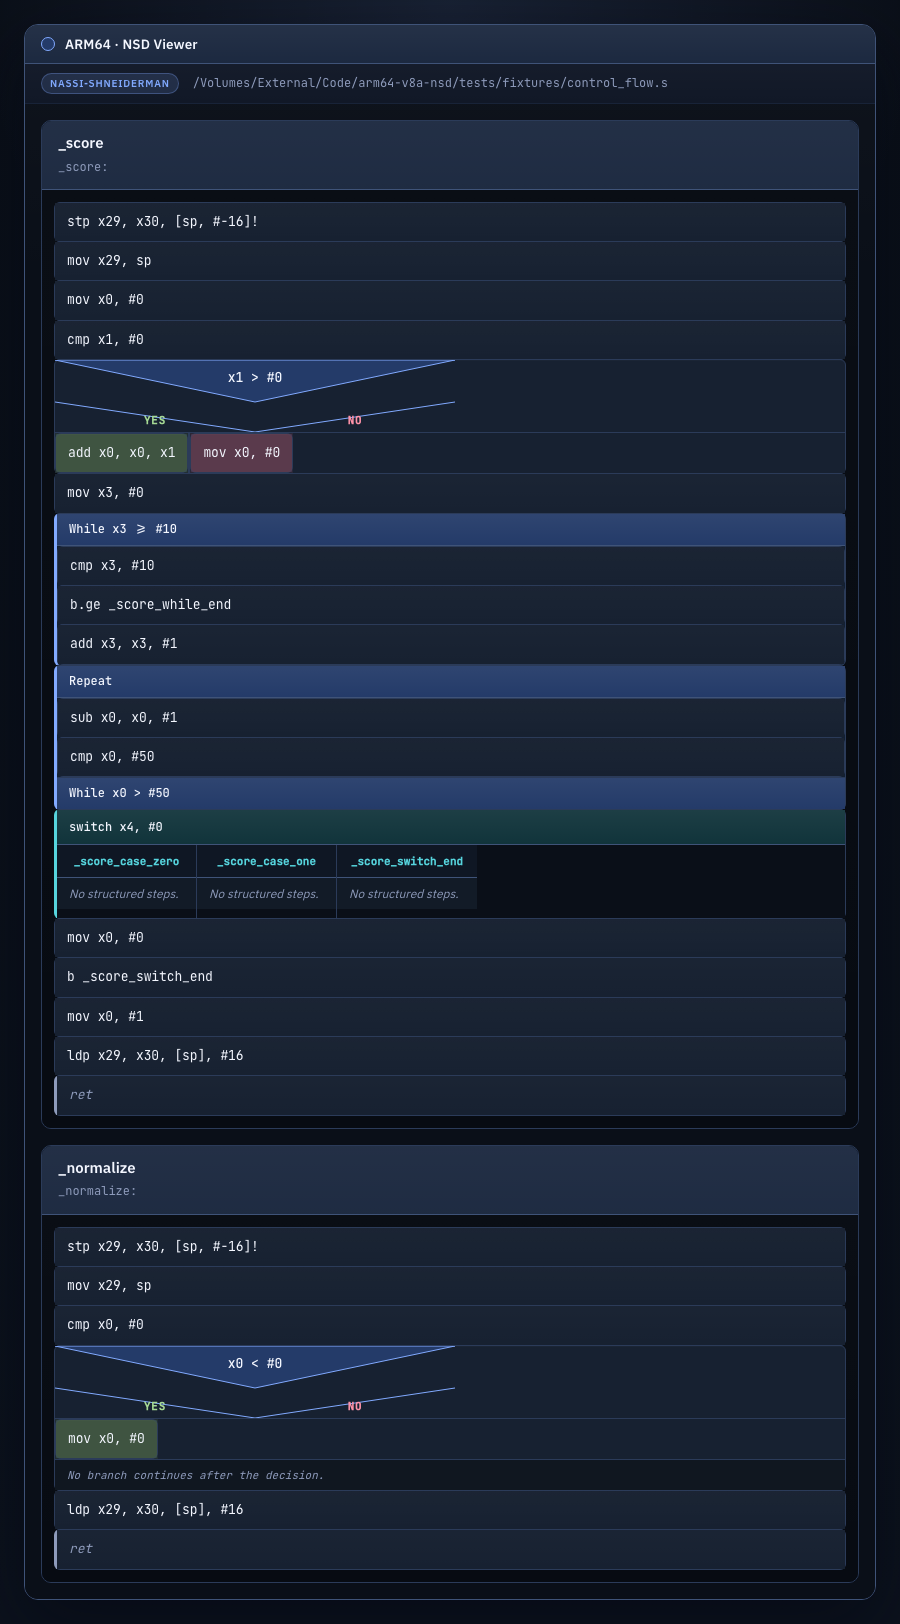
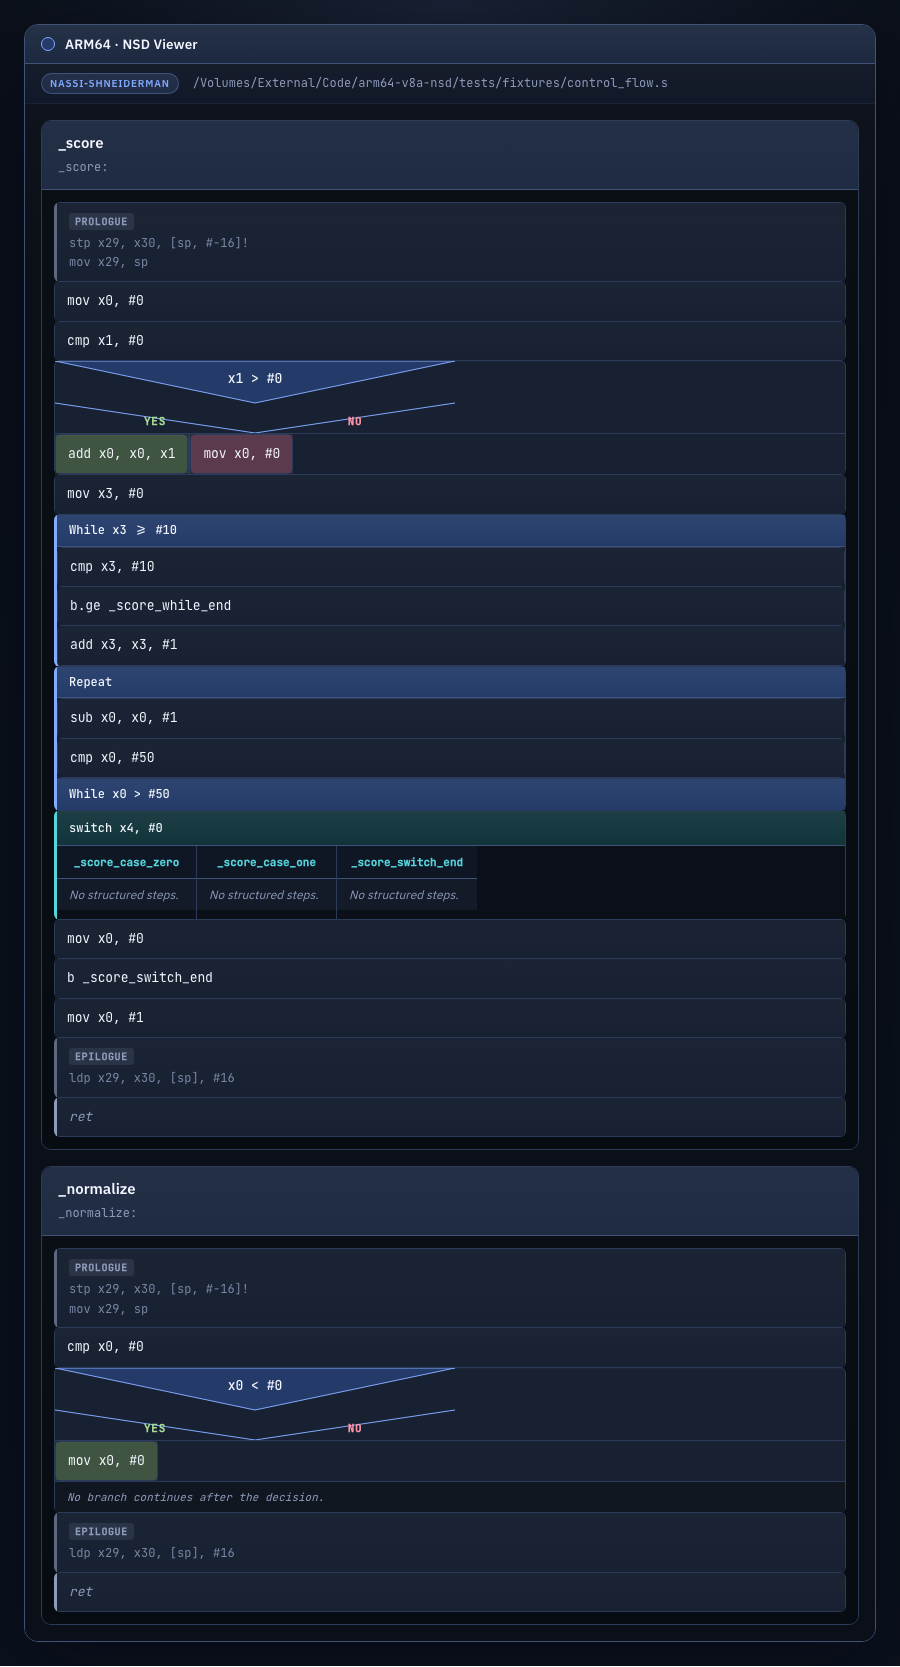
.

Changed region(s): [[0.0311, 0.0, 0.9644, 0.9544], [0.2178, 0.0308, 0.7467, 0.0616]]

diff --git a/src/arm64nsd/infrastructure/arm64/instruction_set.py b/src/arm64nsd/infrastructure/arm64/instruction_set.py
@@ -334,6 +334,84 @@ def is_register(token: str) -> bool:
     return token.lower().strip() in ALL_REGISTERS
 
 
+# ---------------------------------------------------------------------------
+# Stack frame helpers
+# ---------------------------------------------------------------------------
+
+_STACK_FRAME_REGISTERS: frozenset[str] = frozenset({"fp", "lr", "x29", "x30"})
+
+
+def is_prologue_instruction(mnemonic: str, operands: str) -> bool:
+    """True when the instruction is a typical function prologue operation.
+
+    Recognised patterns:
+      - stp x29, x30, [sp, #... ]!   (push frame record)
+      - stp fp, lr, [sp, #...]!
+      - sub sp, sp, #N               (allocate stack frame)
+      - mov x29, sp                  (set frame pointer)
+      - mov fp, sp
+      - add x29, sp, #0
+    """
+    mnem = mnemonic.lower()
+    ops = operands.lower().replace(" ", "")
+
+    # stp with fp/lr/x29/x30 targeting [sp, ...]!
+    if mnem == "stp":
+        has_frame_reg = any(r in ops for r in _STACK_FRAME_REGISTERS)
+        has_sp = "sp" in ops and ("[sp" in ops or ",sp" in ops)
+        return has_frame_reg and has_sp
+
+    # sub sp, sp, #N or sub sp, sp, N
+    if mnem == "sub":
+        parts = [p.strip() for p in operands.split(",")]
+        if len(parts) >= 2 and parts[0].strip().lower() == "sp" and parts[1].strip().lower() == "sp":
+            return True
+
+    # mov x29, sp / mov fp, sp / add x29, sp, #0
+    if mnem == "mov":
+        parts = [p.strip() for p in operands.split(",")]
+        if len(parts) >= 2 and parts[0].strip().lower() in ("x29", "fp") and parts[1].strip().lower() == "sp":
+            return True
+
+    if mnem == "add":
+        parts = [p.strip() for p in operands.split(",")]
+        if len(parts) >= 2 and parts[0].strip().lower() in ("x29", "fp") and parts[1].strip().lower() == "sp":
+            return True
+
+    return False
+
+
+def is_epilogue_instruction(mnemonic: str, operands: str) -> bool:
+    """True when the instruction is a typical function epilogue operation.
+
+    Recognised patterns:
+      - ldp x29, x30, [sp], #N      (pop frame record)
+      - ldp fp, lr, [sp], #N
+      - add sp, sp, #N               (deallocate stack frame)
+      - mov sp, x29 / mov sp, fp     (restore sp from frame pointer)
+    """
+    mnem = mnemonic.lower()
+    ops = operands.lower().replace(" ", "")
+
+    # ldp with fp/lr/x29/x30 from [sp], #N
+    if mnem == "ldp":
+        has_frame_reg = any(r in ops for r in _STACK_FRAME_REGISTERS)
+        has_sp = "sp" in ops and ("[sp" in ops or ",sp" in ops)
+        return has_frame_reg and has_sp
+
+    # add sp, sp, #N
+    if mnem in ("add", "mov"):
+        parts = [p.strip() for p in operands.split(",")]
+        if len(parts) >= 2 and parts[0].strip().lower() == "sp":
+            src = parts[1].strip().lower()
+            if mnem == "mov" and src in ("x29", "fp"):
+                return True
+            if mnem == "add" and src == "sp":
+                return True
+
+    return False
+
+
 def is_directive(token: str) -> bool:
     """True when *token* starts with ``.`` and matches a known directive name."""
     if not token.startswith("."):

diff --git a/src/arm64nsd/infrastructure/rendering/nassi_html_renderer.py b/src/arm64nsd/infrastructure/rendering/nassi_html_renderer.py
@@ -13,10 +13,12 @@ from arm64nsd.domain.control_flow import (
     ContinueStep,
     ControlFlowDiagram,
     ControlFlowStep,
+    EpilogueStep,
     IfFlowStep,
     IndirectBranchStep,
     InlineIfStep,
     InfiniteLoopStep,
+    PrologueStep,
     RepeatWhileFlowStep,
     ReturnStep,
     SwitchCaseFlow,
@@ -314,6 +316,30 @@ class HtmlNassiDiagramRenderer(NassiDiagramRenderer):
       .ns-node.ns-continue {{ border-left: 3px solid var(--amber); background: var(--amber-dim); }}
       .ns-node.ns-inline-if {{ border-left: 3px solid var(--purple); background: var(--purple-dim); }}
       .ns-node.ns-indirect {{ border-left: 3px solid var(--teal); background: var(--teal-dim); }}
+      .ns-node.ns-prologue {{ border-left: 3px solid #5e6883; background: rgba(30, 38, 55, 0.85); }}
+      .ns-node.ns-epilogue {{ border-left: 3px solid #5e6883; background: rgba(30, 38, 55, 0.85); }}
+      .stack-text {{
+        display: block;
+        font-family: var(--mono);
+        font-size: 12px;
+        line-height: 1.65;
+        color: #7b87a5;
+        white-space: pre-wrap;
+        overflow-wrap: anywhere;
+      }}
+      .stack-badge {{
+        display: inline-block;
+        font-family: var(--mono);
+        font-size: 10px;
+        font-weight: 600;
+        text-transform: uppercase;
+        letter-spacing: 0.06em;
+        padding: 2px 6px;
+        border-radius: 3px;
+        margin-bottom: 4px;
+      }}
+      .stack-badge-prologue {{ background: rgba(94, 104, 131, 0.25); color: #8e9bbb; }}
+      .stack-badge-epilogue {{ background: rgba(94, 104, 131, 0.25); color: #8e9bbb; }}
       .ns-indirect .call-text {{ color: var(--teal); }}
       .ns-infinite > .ns-header {{ background: var(--red-dim); color: var(--red); }}
       .call-text {{
@@ -661,6 +687,26 @@ class HtmlNassiDiagramRenderer(NassiDiagramRenderer):
             return (
                 '<div class="ns-node ns-continue">'
                 f'<div class="ns-label"><code class="break-text">continue {escape(step.label)}</code></div>'
+                "</div>"
+            )
+        if isinstance(step, PrologueStep):
+            body = "\n".join(step.instructions)
+            return (
+                '<div class="ns-node ns-prologue">'
+                '<div class="ns-label">'
+                '<span class="stack-badge stack-badge-prologue">prologue</span>'
+                f'<code class="stack-text">{escape(body)}</code>'
+                "</div>"
+                "</div>"
+            )
+        if isinstance(step, EpilogueStep):
+            body = "\n".join(step.instructions)
+            return (
+                '<div class="ns-node ns-epilogue">'
+                '<div class="ns-label">'
+                '<span class="stack-badge stack-badge-epilogue">epilogue</span>'
+                f'<code class="stack-text">{escape(body)}</code>'
+                "</div>"
                 "</div>"
             )
         if isinstance(step, IfFlowStep):

diff --git a/src/arm64nsd/infrastructure/arm64/branch_analyzer.py b/src/arm64nsd/infrastructure/arm64/branch_analyzer.py
@@ -10,10 +10,12 @@ from arm64nsd.domain.control_flow import (
     CallFlowStep,
     ContinueStep,
     ControlFlowStep,
+    EpilogueStep,
     IfFlowStep,
     IndirectBranchStep,
     InlineIfStep,
     InfiniteLoopStep,
+    PrologueStep,
     RepeatWhileFlowStep,
     ReturnStep,
     SwitchCaseFlow,
@@ -25,6 +27,8 @@ from arm64nsd.infrastructure.arm64.instruction_set import (
     CONDITIONAL_SELECT_MNEMONICS,
     branch_condition,
     is_conditional_branch,
+    is_epilogue_instruction,
+    is_prologue_instruction,
     is_return,
     is_unconditional_branch,
     negate_condition,
@@ -772,6 +776,40 @@ class BranchAnalyzer:
                         steps.append(BreakStep(label=label))
                 elif mnem in CONDITIONAL_SELECT_MNEMONICS:
                     steps.append(InlineIfStep(expression=line.instruction_text))
+                elif is_prologue_instruction(mnem, line.operands or ""):
+                    prologue_ins = [line.instruction_text]
+                    scan = index + 1
+                    while scan < end and scan < len(self._lines):
+                        nxt = self._lines[scan]
+                        if not nxt.is_instruction or scan in covered:
+                            break
+                        nxt_mnem = (nxt.mnemonic or "").lower()
+                        if is_prologue_instruction(nxt_mnem, nxt.operands or ""):
+                            prologue_ins.append(nxt.instruction_text)
+                            covered[scan] = "prologue"
+                            scan += 1
+                        else:
+                            break
+                    steps.append(PrologueStep(instructions=tuple(prologue_ins)))
+                    index = scan
+                    continue
+                elif is_epilogue_instruction(mnem, line.operands or ""):
+                    epilogue_ins = [line.instruction_text]
+                    scan = index + 1
+                    while scan < end and scan < len(self._lines):
+                        nxt = self._lines[scan]
+                        if not nxt.is_instruction or scan in covered:
+                            break
+                        nxt_mnem = (nxt.mnemonic or "").lower()
+                        if is_epilogue_instruction(nxt_mnem, nxt.operands or ""):
+                            epilogue_ins.append(nxt.instruction_text)
+                            covered[scan] = "epilogue"
+                            scan += 1
+                        else:
+                            break
+                    steps.append(EpilogueStep(instructions=tuple(epilogue_ins)))
+                    index = scan
+                    continue
                 else:
                     text = line.instruction_text
                     if text.strip():

diff --git a/tests/test_nassi_diagrams.py b/tests/test_nassi_diagrams.py
@@ -8,8 +8,10 @@ from arm64nsd.domain.control_flow import (
     ActionFlowStep,
     ContinueStep,
     ControlFlowDiagram,
+    EpilogueStep,
     FunctionControlFlow,
     IfFlowStep,
+    PrologueStep,
     SwitchCaseFlow,
     SwitchFlowStep,
     WhileFlowStep,
@@ -369,3 +371,38 @@ class TestArm64ControlFlowExtraction:
             f"Expected ContinueStep in while body, got: "
             f"{[type(s).__name__ for s in while_step.body_steps]}"
         )
+
+    def test_prologue_epilogue_detected(self) -> None:
+        extractor = _build_extractor()
+        from arm64nsd.domain.model import SourceUnit, SourceUnitId
+
+        source = SourceUnit(
+            identifier=SourceUnitId("stack.s"),
+            location="stack.s",
+            content=(
+                "    .text\n"
+                "    .global _frame\n"
+                "_frame:\n"
+                "    stp x29, x30, [sp, #-32]!\n"
+                "    mov x29, sp\n"
+                "    sub sp, sp, #16\n"
+                "    mov x0, #42\n"
+                "    add sp, sp, #16\n"
+                "    ldp x29, x30, [sp], #32\n"
+                "    ret\n"
+            ),
+        )
+        diagram = extractor.extract(source)
+
+        func = diagram.functions[0]
+        types = [type(s).__name__ for s in func.steps]
+        assert "PrologueStep" in types, f"Expected PrologueStep, got: {types}"
+        assert "EpilogueStep" in types, f"Expected EpilogueStep, got: {types}"
+
+        prologue = next(s for s in func.steps if isinstance(s, PrologueStep))
+        assert len(prologue.instructions) == 3  # stp + mov + sub sp
+        assert any("stp" in i for i in prologue.instructions)
+
+        epilogue = next(s for s in func.steps if isinstance(s, EpilogueStep))
+        assert len(epilogue.instructions) == 2  # add sp + ldp
+        assert any("ldp" in i for i in epilogue.instructions)

diff --git a/src/arm64nsd/domain/control_flow.py b/src/arm64nsd/domain/control_flow.py
@@ -43,6 +43,18 @@ class ReturnStep(ControlFlowStep):
 
 
 @dataclass(frozen=True, slots=True)
+class PrologueStep(ControlFlowStep):
+    """Function prologue: stack frame setup (stp fp/lr, sub sp, mov fp)."""
+    instructions: tuple[str, ...]
+
+
+@dataclass(frozen=True, slots=True)
+class EpilogueStep(ControlFlowStep):
+    """Function epilogue: stack frame teardown (ldp fp/lr, add sp)."""
+    instructions: tuple[str, ...]
+
+
+@dataclass(frozen=True, slots=True)
 class BreakStep(ControlFlowStep):
     label: str
 